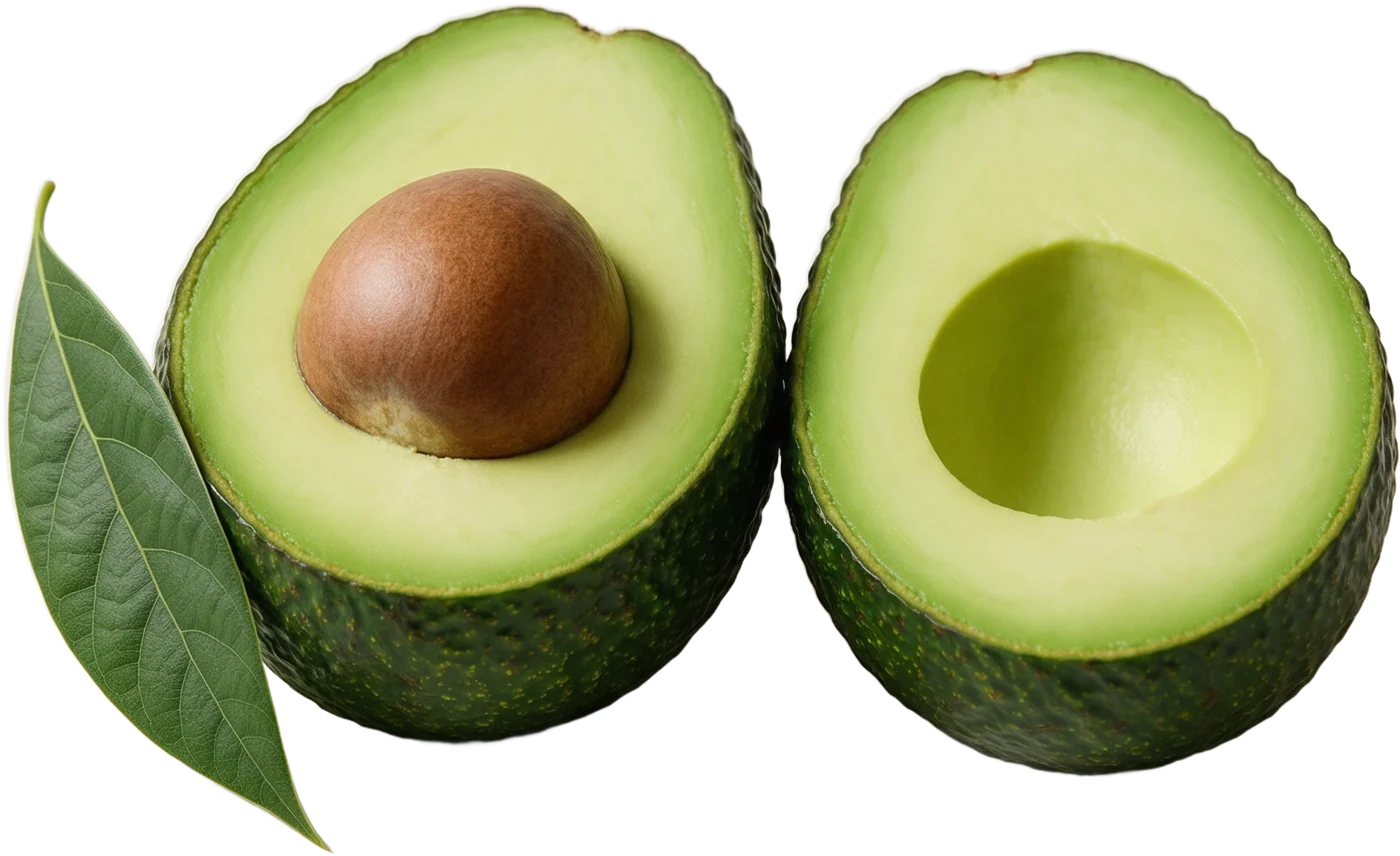
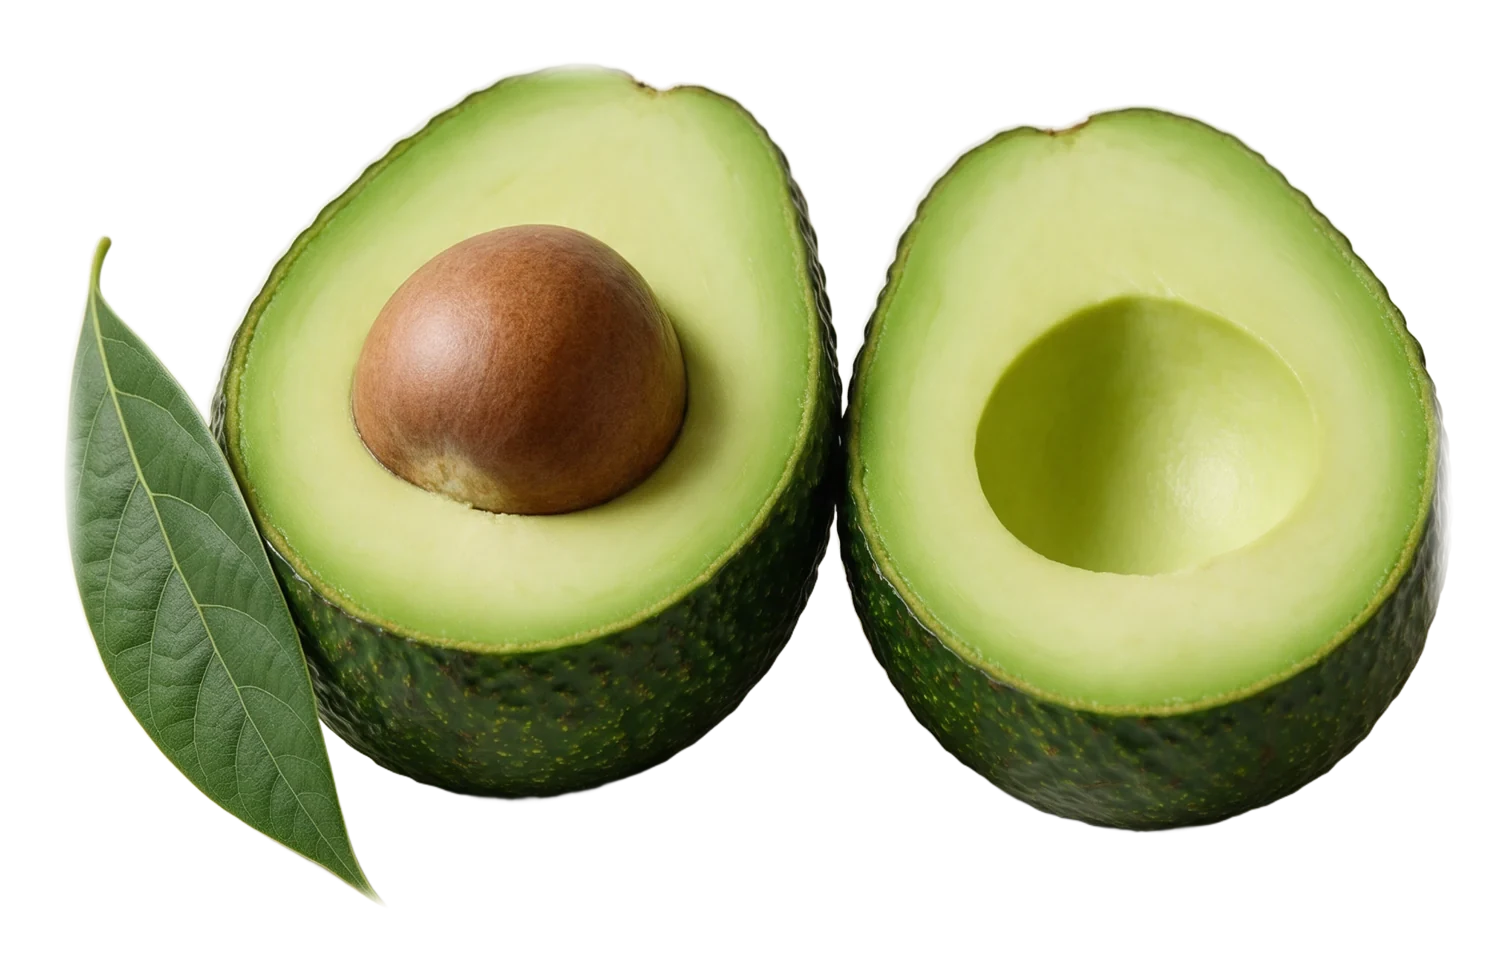
Home: refinements round 1
- Hero: MAHELA brand name above the eyebrow
- Fix the farm-to-port journey: triggers below the pinned produce rail were
  measured before the pin existed, so the line had already finished; sort
  and refresh ScrollTrigger after the pins are created
- Journey stops slide in from their side
- Compliance: accreditation logos on one line on desktop
- Export globe: feathered halo instead of a hard rim, camera pulled back and
  arcs lowered so nothing reaches the canvas edge, plus an edge mask
- Leaves fade out at section edges instead of being sliced
- Feather hard-cropped edges on six produce renders
- Remove the press section from the home page

Claude-Session: https://claude.ai/code/session_01KSYVc4KH44taDuFJe5bTKk

diff --git a/src/scripts/globe.ts b/src/scripts/globe.ts
@@ -72,13 +72,14 @@ export function mountGlobe(el: HTMLElement) {
   const renderer = new THREE.WebGLRenderer({ antialias: true, alpha: true });
   renderer.setPixelRatio(Math.min(window.devicePixelRatio, 1.75));
   const canvas = renderer.domElement;
-  canvas.className = 'absolute inset-0 h-full w-full cursor-grab touch-pan-y';
+  canvas.className = 'globe-canvas absolute inset-0 h-full w-full cursor-grab touch-pan-y';
   canvas.setAttribute('aria-hidden', 'true');
   el.appendChild(canvas);
 
   const scene = new THREE.Scene();
   const camera = new THREE.PerspectiveCamera(35, 1, 0.1, 50);
-  camera.position.set(0, 0, 3.6);
+  // Pulled back so the halo and the arcs always sit inside the canvas.
+  camera.position.set(0, 0, 4.8);
 
   const world = new THREE.Group();
   scene.add(world);
@@ -89,17 +90,28 @@ export function mountGlobe(el: HTMLElement) {
     new THREE.MeshBasicMaterial({ color: '#0f2a1f', transparent: true, opacity: 0.85 }),
   );
   world.add(core);
+  // Atmosphere: a camera-facing disc whose glow fades to nothing well before
+  // the canvas edge, so it reads as a soft halo and is never cut off.
   const glow = new THREE.Mesh(
-    new THREE.SphereGeometry(R * 1.12, 64, 48),
+    new THREE.PlaneGeometry(R * 3.6, R * 3.6),
     new THREE.ShaderMaterial({
       transparent: true,
-      side: THREE.BackSide,
+      depthTest: false,
       depthWrite: false,
-      uniforms: { c: { value: new THREE.Color('#b9d1a6') } },
-      vertexShader: 'varying vec3 vN; void main(){ vN = normalize(normalMatrix*normal); gl_Position = projectionMatrix*modelViewMatrix*vec4(position,1.0); }',
-      fragmentShader: 'uniform vec3 c; varying vec3 vN; void main(){ float i = pow(0.75 - dot(vN, vec3(0.,0.,1.)), 3.0); gl_FragColor = vec4(c, i*0.9); }',
+      uniforms: { c: { value: new THREE.Color('#b9d1a6') }, r: { value: R * 1.02 } },
+      vertexShader: 'varying vec2 vP; void main(){ vP = position.xy; gl_Position = projectionMatrix*modelViewMatrix*vec4(position,1.0); }',
+      fragmentShader: [
+        'uniform vec3 c; uniform float r; varying vec2 vP;',
+        'void main(){',
+        '  float d = length(vP) / r;',
+        '  float outer = 1.0 - smoothstep(0.96, 1.45, d);',
+        '  outer = outer * outer * smoothstep(0.7, 1.0, d);',
+        '  gl_FragColor = vec4(c, outer * 0.42);',
+        '}',
+      ].join('\n'),
     }),
   );
+  glow.renderOrder = -1;
   scene.add(glow);
 
   // Land dots
@@ -133,7 +145,7 @@ export function mountGlobe(el: HTMLElement) {
   const arcs = markets.map((m) => {
     const end = toVec(m.lat, m.lon, R * 1.005);
     const mid = o.clone().add(end).multiplyScalar(0.5);
-    const lift = 1 + o.distanceTo(end) * 0.55;
+    const lift = 1 + o.distanceTo(end) * 0.32;
     mid.normalize().multiplyScalar(R * lift);
     const curve = new THREE.QuadraticBezierCurve3(o, mid, end);
     const geo = new THREE.TubeGeometry(curve, 80, m.primary ? 0.008 : 0.005, 8, false);

diff --git a/src/scripts/motion.ts b/src/scripts/motion.ts
@@ -64,6 +64,7 @@ export function initMotion() {
         scrollTrigger: { trigger: el, start: 'top 88%', once: true },
       });
     });
+    ScrollTrigger.sort();
     ScrollTrigger.refresh();
   });
 
@@ -255,4 +256,11 @@ export function initMotion() {
       });
     }
   });
+
+  // Pinned sections (produce rail, heritage) are created after the triggers
+  // further down the page, which would leave those triggers measured without
+  // the pin spacing (the journey line had already finished before it was
+  // reached). Re-order by position and measure again.
+  ScrollTrigger.sort();
+  ScrollTrigger.refresh();
 }
